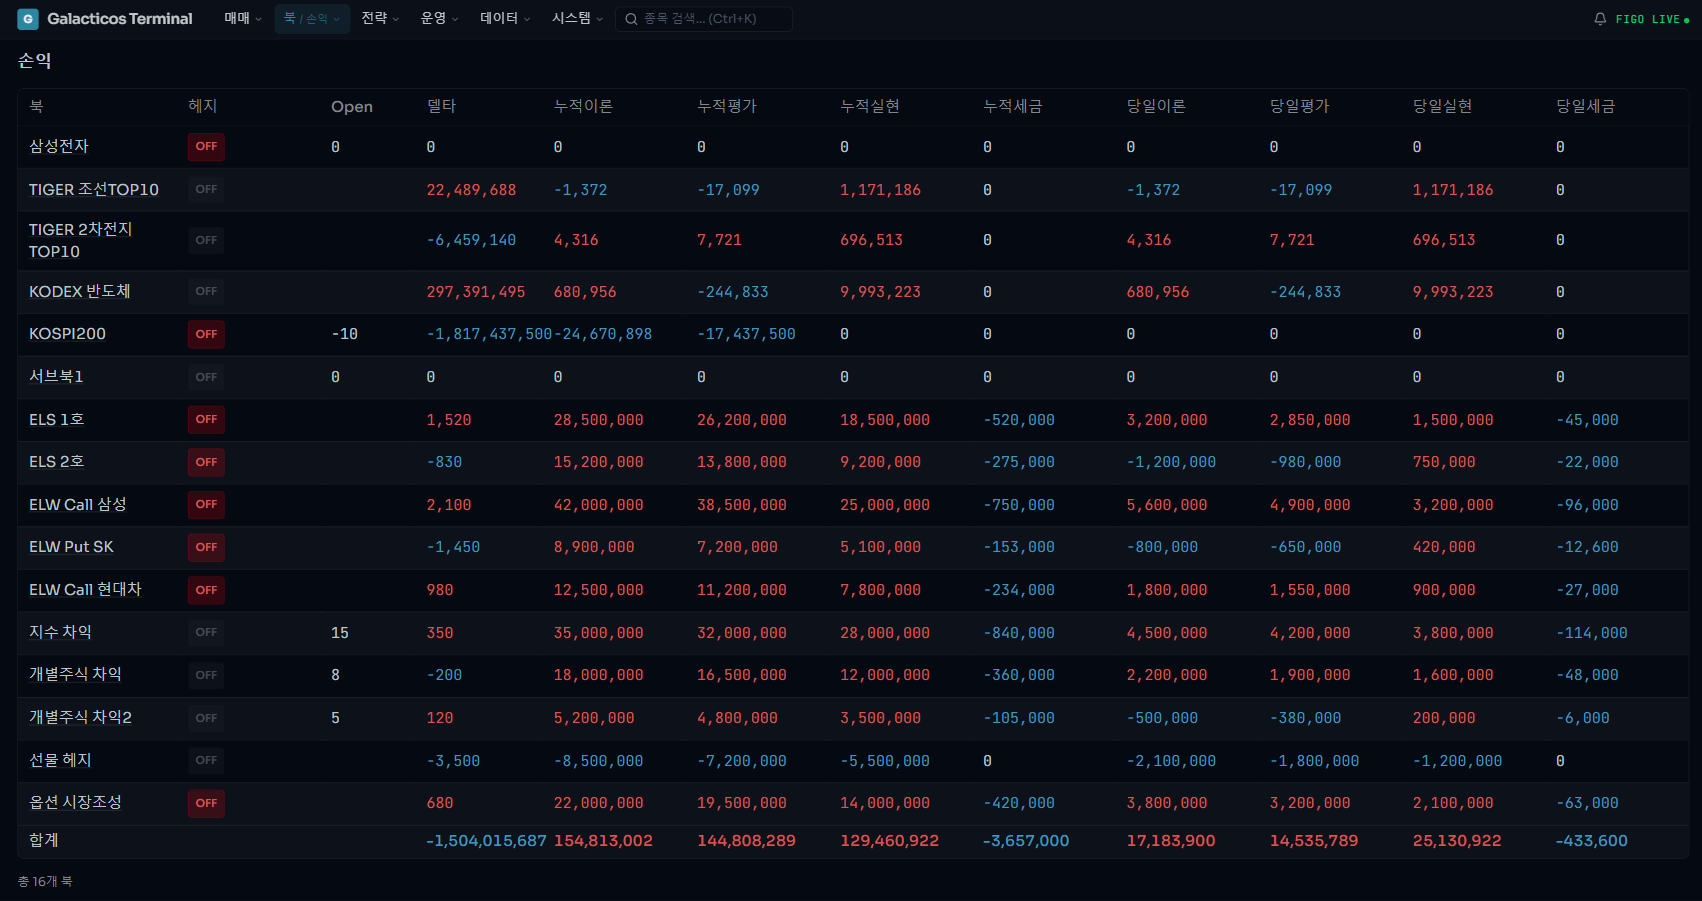
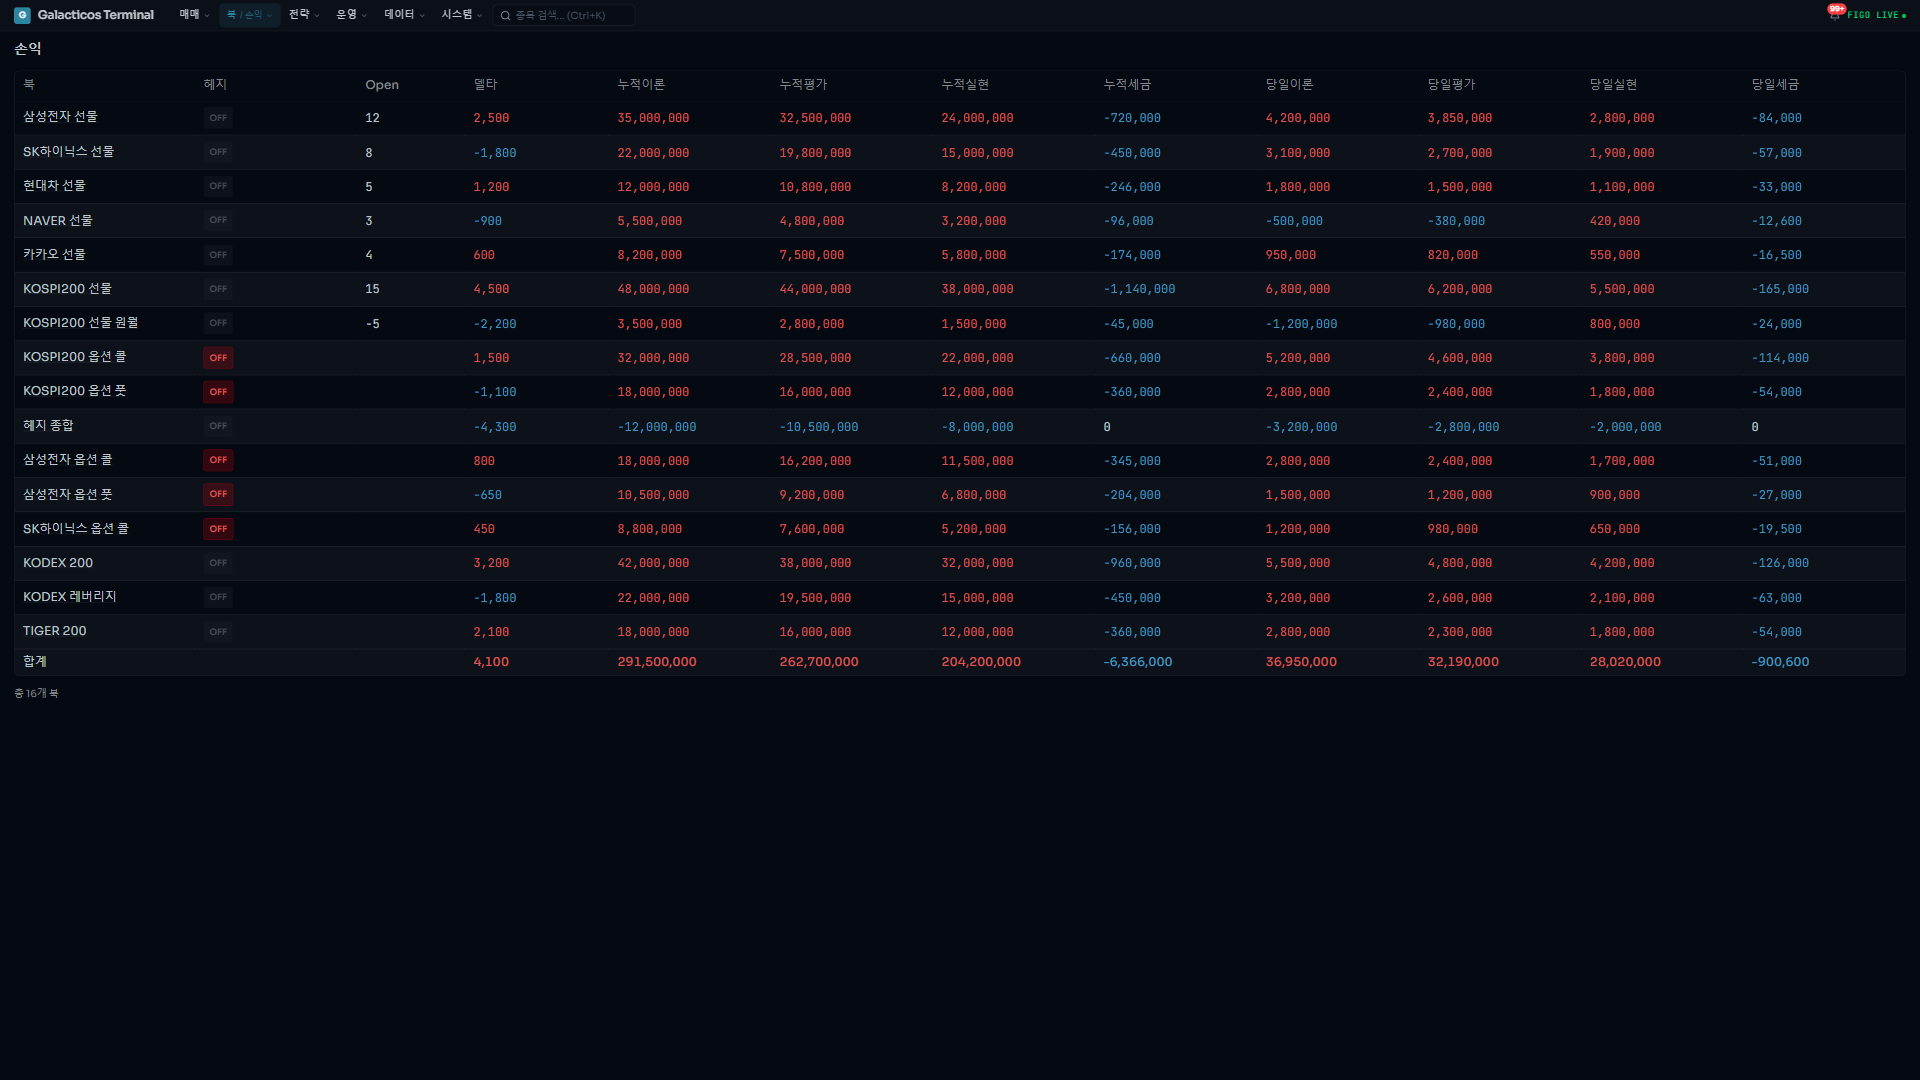
Update screenshots: clean demo data with SSO+ETF books, 1920px
- Removed real data from screenshots (ELS/ELW/실 데이터)
- Added single stock option books (삼성전자/SK하이닉스 콜/풋)
- Added ETF books (KODEX 200, KODEX 레버리지, TIGER 200)
- Dashboard: 1920px viewport, all widgets populated
- Book PnL: 16 demo books, clean data
- Screenshots layout: stacked vertical

diff --git a/style.css b/style.css
@@ -537,9 +537,13 @@ body {
 /* Screenshots */
 .project__screenshots {
   display: grid;
-  grid-template-columns: repeat(auto-fit, minmax(280px, 1fr));
-  gap: 16px;
-  margin-top: 20px;
+  grid-template-columns: 1fr;
+  gap: 20px;
+  margin-top: 24px;
+}
+
+.project__screenshots .project__screenshot {
+  width: 100%;
 }
 
 .project__screenshot {
